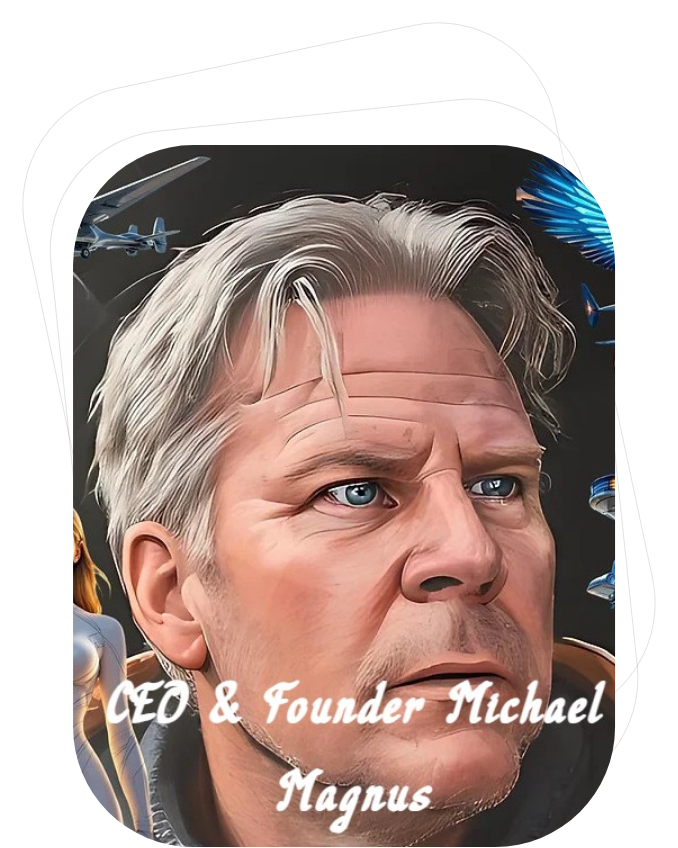
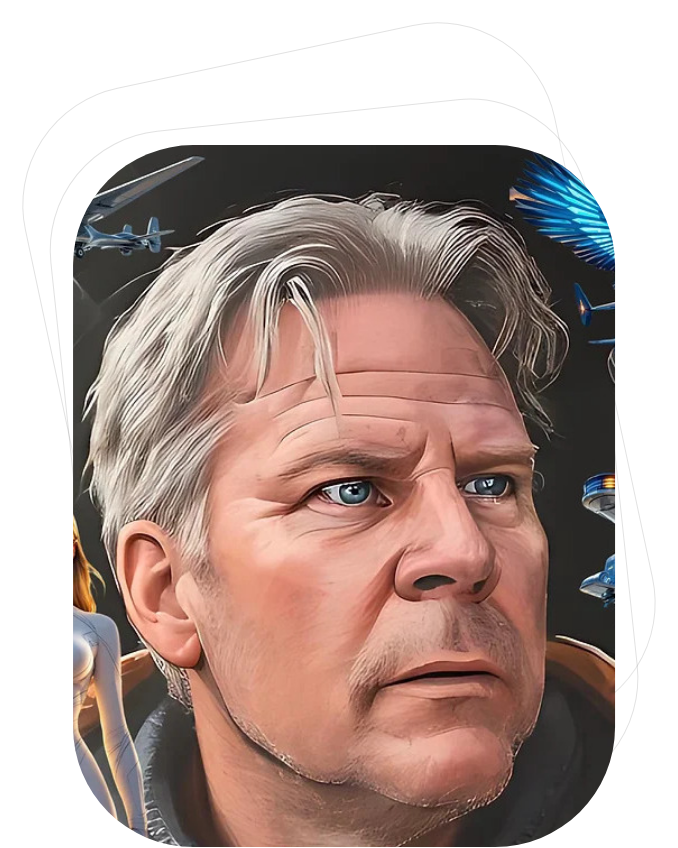
add family image

Changed region(s): [[0.0929, 0.184, 0.9292, 1.0], [0.8363, 0.5519, 0.9292, 0.6132], [0.3097, 0.9198, 0.3717, 1.0]]

diff --git a/templates/pages/top/index.html b/templates/pages/top/index.html
@@ -205,6 +205,9 @@ Do not miss out on this opportunity-secure your FUCUS Coins today!
     </section>
     <section class="p-gold" id="gold">
         <div class="p-gold__container wow bounceInUp">
+            <figure class="p-reason__img">
+                <img src="{% static '/img/top/family.jpg'%}" alt="">
+            </figure>
             <a class="p-gold__deco" href="http://fucuscoin.com">Fucus Coin</a>
             <h1 class="p-gold__ttl">FUCUS-COIN</h1>
             <p class="p-gold__subttl">Invest in FUCUS Coin today and unlock a safe investment opportunity with a 20x factor! With FUCUS Coin, you can secure your financial future with confidence. Our innovative technology and solid investment strategy in transport and passenger drones ensure a reliable and lucrative return on your investment. Do not miss out on this chance to grow your wealth exponentially-join us in the journey to financial success with FUCUS COIN.</p>
